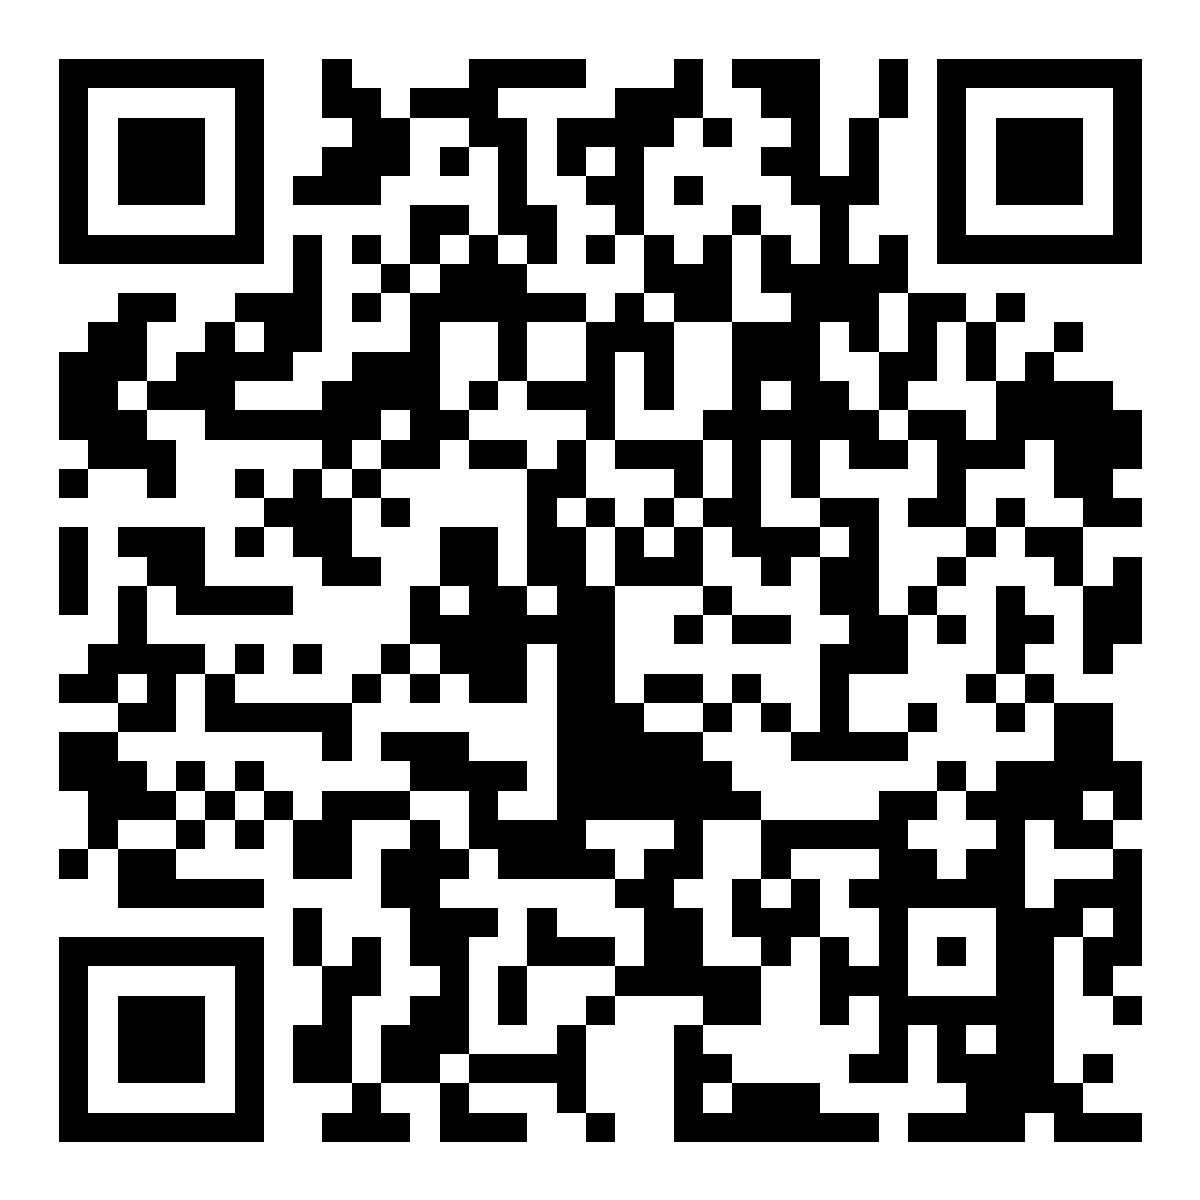
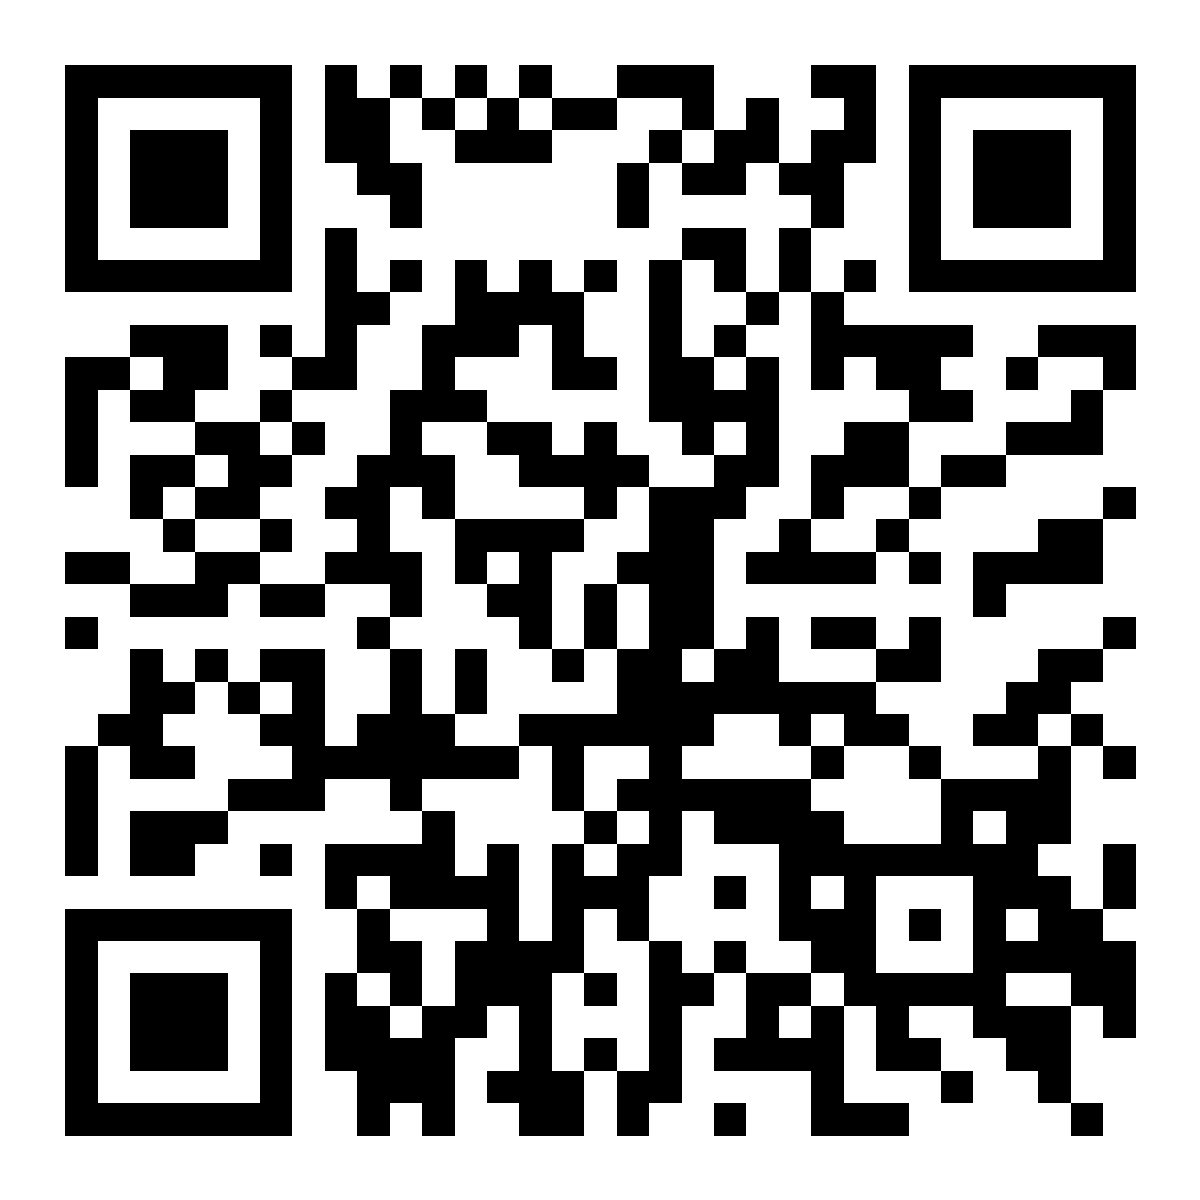
Custom domain aaryashah.dev: CNAME, canonical URLs, regenerated QR

diff --git a/in-the-loop.html b/in-the-loop.html
@@ -4,13 +4,13 @@
   <meta charset="utf-8" />
   <meta name="viewport" content="width=device-width, initial-scale=1" />
   <title>Deny by default · Aarya Shah</title>
-  <link rel="canonical" href="https://theaarya.github.io/in-the-loop" />
+  <link rel="canonical" href="https://aaryashah.dev/in-the-loop" />
   <link rel="icon" type="image/png" href="https://github.com/theaarya.png?size=64" />
   <meta name="theme-color" id="themeColor" content="#f6f1e7" />
   <meta name="description" content="Slides, write ups and links from Aarya Shah's In The Loop 2026 talk: Deny by default, deciding what your automation is allowed to think." />
   <meta property="og:title"        content="Deny by default · Aarya Shah" />
   <meta property="og:description"  content="Deciding what your automation is allowed to think. Everything from the In The Loop 2026 talk, in one place." />
-  <meta property="og:url"          content="https://theaarya.github.io/in-the-loop" />
+  <meta property="og:url"          content="https://aaryashah.dev/in-the-loop" />
   <meta property="og:image"        content="https://github.com/theaarya.png?size=600" />
   <meta property="og:type"         content="website" />
   <meta name="twitter:card"        content="summary" />

diff --git a/index.html b/index.html
@@ -14,15 +14,15 @@
   <meta name="twitter:title"       content="Aarya Shah" />
   <meta name="twitter:description" content="AI & automation engineer. Six layers of stack, one orchestrator." />
   <meta name="twitter:image"       content="https://github.com/theaarya.png?size=600" />
-  <meta property="og:url"          content="https://theaarya.github.io/" />
-  <link rel="canonical" href="https://theaarya.github.io/" />
+  <meta property="og:url"          content="https://aaryashah.dev/" />
+  <link rel="canonical" href="https://aaryashah.dev/" />
   <meta name="theme-color" id="themeColor" content="#f6f1e7" />
   <script type="application/ld+json">
   {
     "@context": "https://schema.org",
     "@type": "Person",
     "name": "Aarya Shah",
-    "url": "https://theaarya.github.io/",
+    "url": "https://aaryashah.dev/",
     "image": "https://github.com/theaarya.png?size=600",
     "jobTitle": "AI & Automation Engineer",
     "worksFor": { "@type": "Organization", "name": "Tutero" },

diff --git a/contact.html b/contact.html
@@ -14,8 +14,8 @@
   <meta name="twitter:title"       content="Contact · Aarya Shah" />
   <meta name="twitter:description" content="Get in touch — email, phone, LinkedIn, GitHub, WhatsApp." />
   <meta name="twitter:image"       content="https://github.com/theaarya.png?size=600" />
-  <meta property="og:url"          content="https://theaarya.github.io/contact" />
-  <link rel="canonical" href="https://theaarya.github.io/contact" />
+  <meta property="og:url"          content="https://aaryashah.dev/contact" />
+  <link rel="canonical" href="https://aaryashah.dev/contact" />
   <meta name="theme-color" id="themeColor" content="#f6f1e7" />
   <script>
     // Apply a saved theme choice before first paint so there is no flash.
